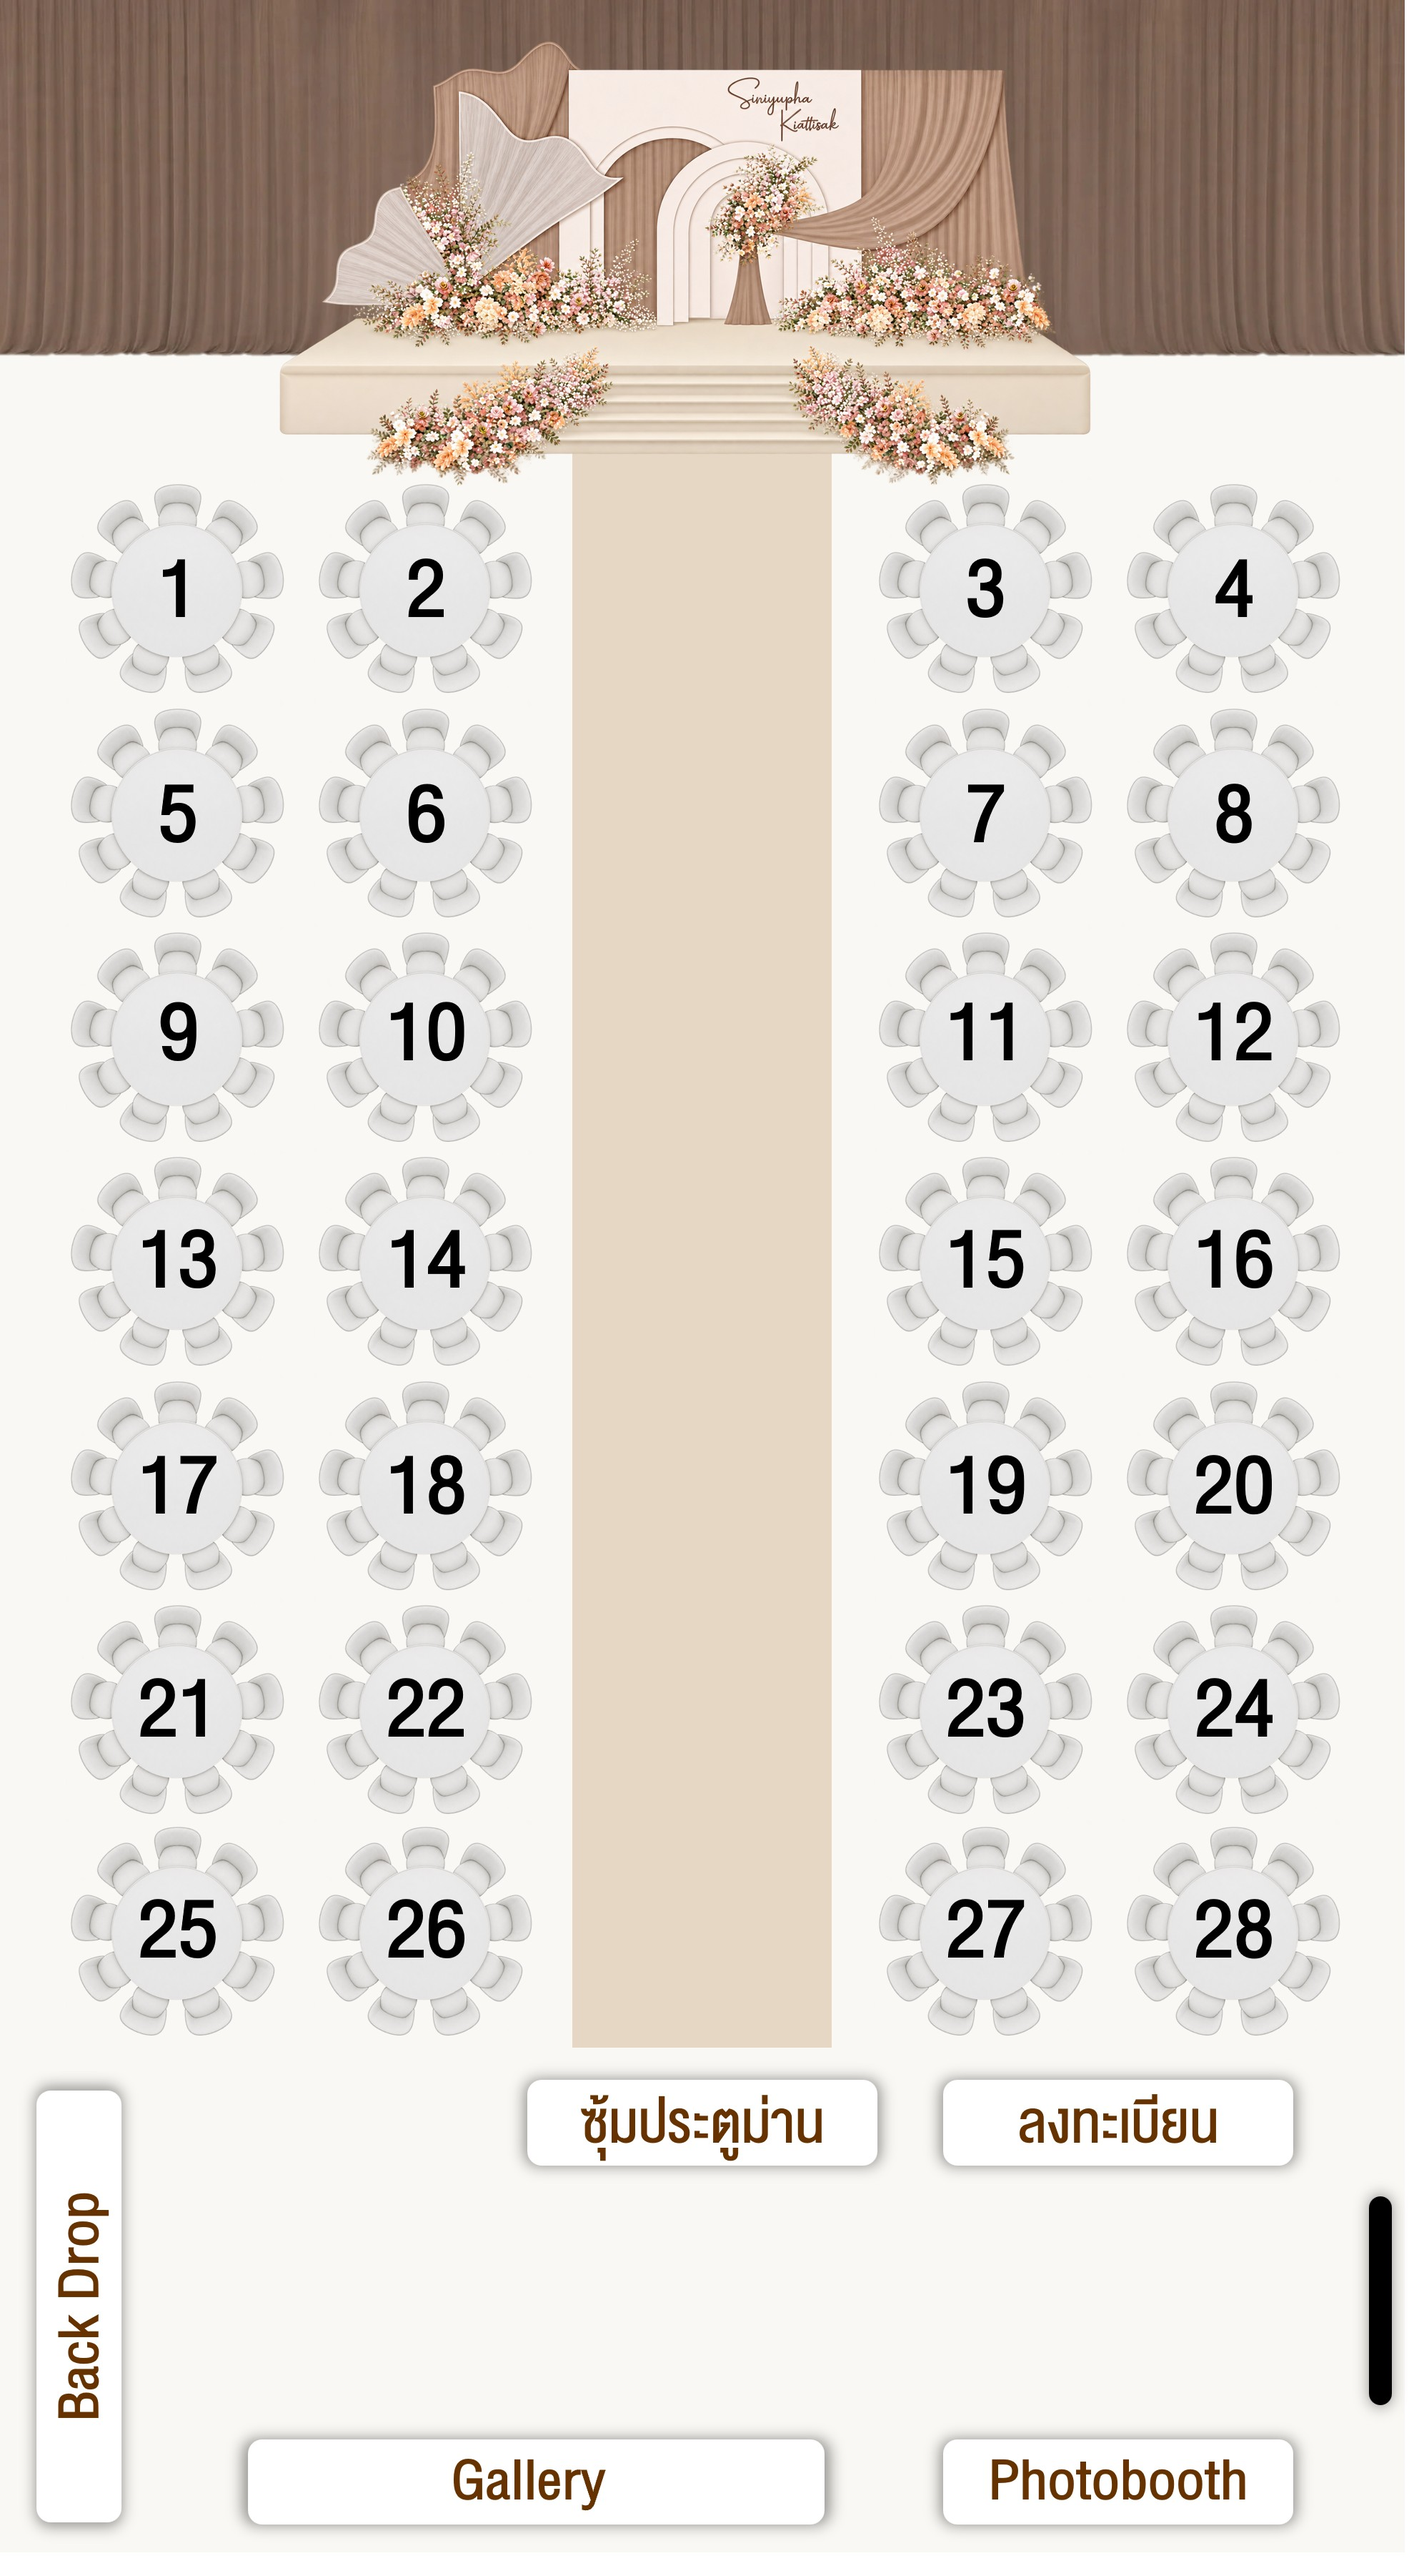
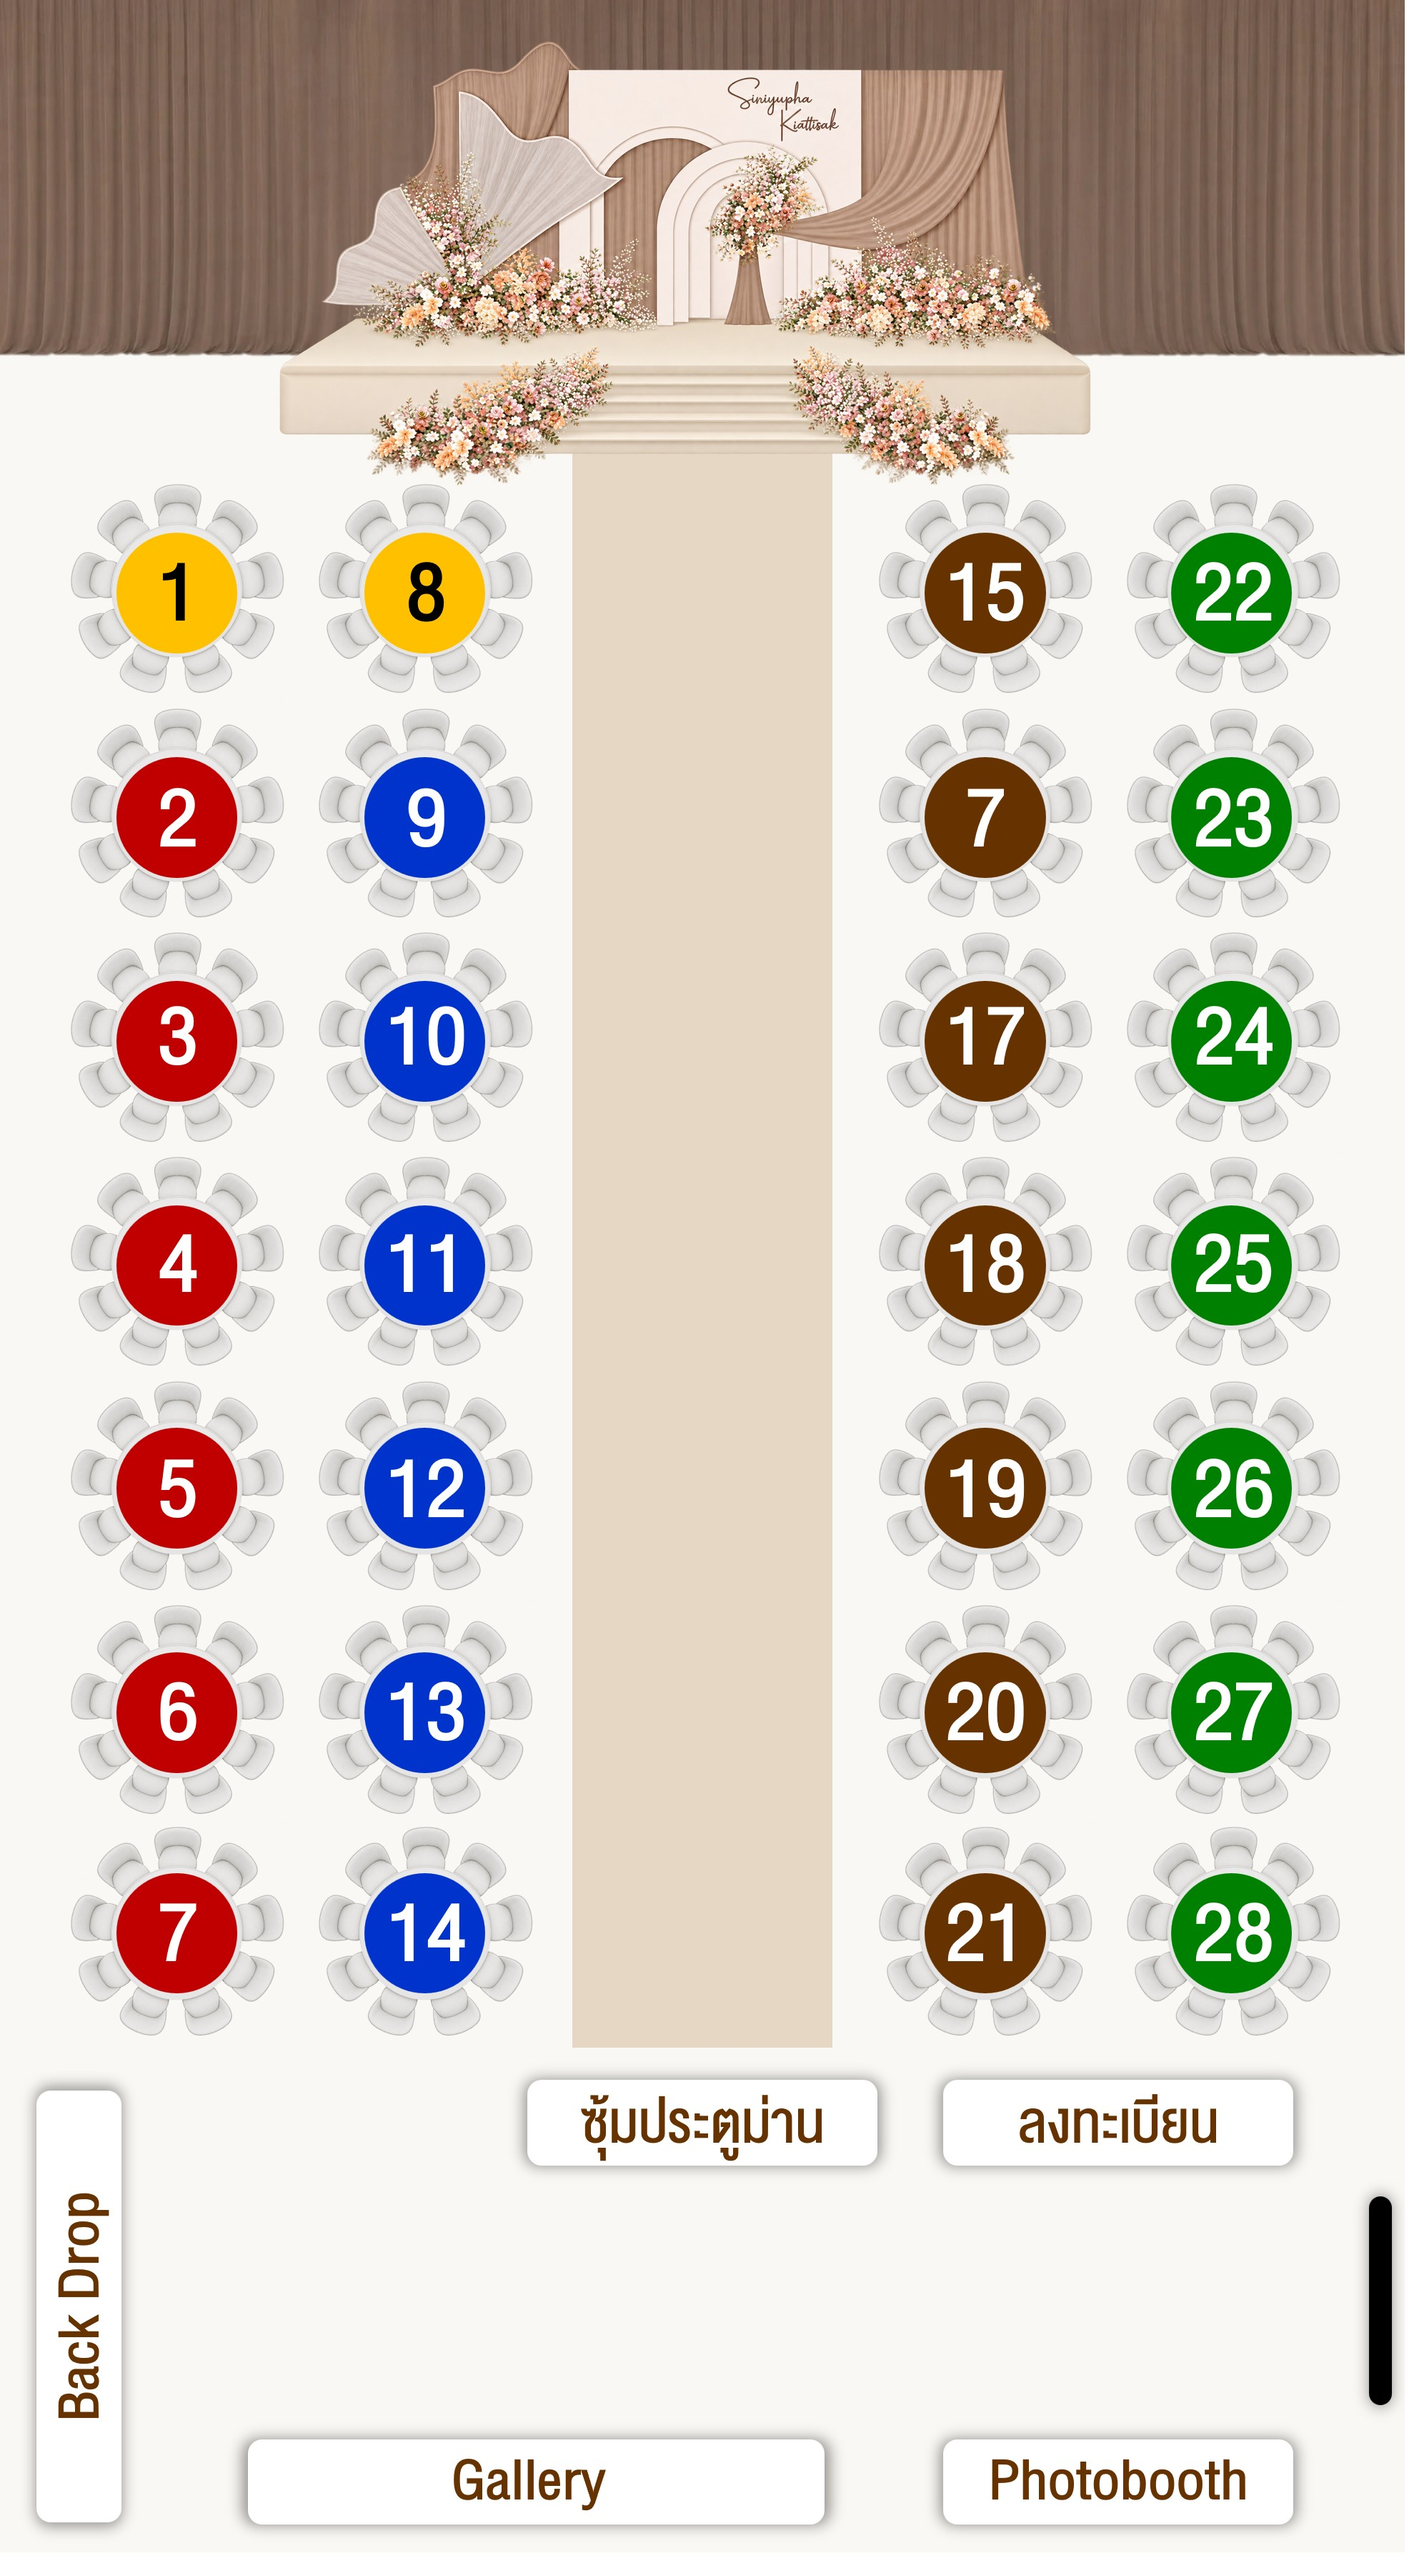
update wedding site and table page label

diff --git a/table/js/table.js b/table/js/table.js
@@ -44,11 +44,12 @@ function renderTables(tables) {
   }
 
   grid.innerHTML = normalizedTables.map(item => {
-    const isFull = item.actualGuestsCount === 10;
+    let isFull = item.actualGuestsCount === 10;
+    let zoneDotClass = getZoneClass(item.tableNo);
 
-    const guestsHtml = item.allGuests
+    let guestsHtml = item.allGuests
       .map((name, i) => {
-        const isVacant = name === 'ว่าง';
+        let isVacant = name === 'ว่าง';
         return `
           <li class="${isVacant ? 'is-vacant' : ''}" title="${escapeHtml(name)}">
             <span class="idx">${i + 1}.</span>${escapeHtml(name)}
@@ -60,7 +61,10 @@ function renderTables(tables) {
     return `
       <article class="table-box">
         <div class="table-header">
-          <span class="table-no">โต๊ะ ${escapeHtml(item.tableNo)}</span>
+          <span class="table-no">
+            ${zoneDotClass ? `<span class="zone-dot ${zoneDotClass}"></span>` : ''}
+            โต๊ะ ${escapeHtml(item.tableNo)}
+          </span>
           <span class="table-badge ${isFull ? 'is-full' : ''}">${item.actualGuestsCount}/10 ท่าน</span>
         </div>
         <ul class="guest-list">
@@ -69,6 +73,16 @@ function renderTables(tables) {
       </article>
     `;
   }).join('');
+}
+
+function getZoneClass(tableNo) {
+  let num = parseInt(String(tableNo).replace(/[^0-9]/g, ''), 10);
+  if (num === 1 || num === 8) return 'zone-dot-a';
+  if (num >= 2 && num <= 7) return 'zone-dot-b';
+  if (num >= 9 && num <= 14) return 'zone-dot-c';
+  if (num >= 15 && num <= 21) return 'zone-dot-d';
+  if (num >= 22 && num <= 28) return 'zone-dot-e';
+  return '';
 }
 
 function filterTables() {

diff --git a/table/index.html b/table/index.html
@@ -40,6 +40,34 @@
       <div class="layout-frame">
         <img src="../img/table-layout.jpg" alt="ผังโต๊ะรับแขกงานแต่ง Siriyupha & Kiattisak">
       </div>
+
+      <!-- คำอธิบายโซนที่นั่ง (Zone A - E) -->
+      <div class="zone-legend">
+        <div class="zone-badge zone-a">
+          <span class="zone-dot"></span>
+          <span class="zone-text"><strong>Zone A :</strong> VIP</span>
+        </div>
+
+        <div class="zone-badge zone-b">
+          <span class="zone-dot"></span>
+          <span class="zone-text"><strong>Zone B :</strong> ญาติผู้ใหญ่ / ชุมแพ</span>
+        </div>
+
+        <div class="zone-badge zone-c">
+          <span class="zone-dot"></span>
+          <span class="zone-text"><strong>Zone C :</strong> ญาติผู้ใหญ่ / ขอนแก่น</span>
+        </div>
+
+        <div class="zone-badge zone-d">
+          <span class="zone-dot"></span>
+          <span class="zone-text"><strong>Zone D :</strong> เนสท์เล่ / กลุ่มเพื่อนเจ้าสาว</span>
+        </div>
+
+        <div class="zone-badge zone-e">
+          <span class="zone-dot"></span>
+          <span class="zone-text"><strong>Zone E :</strong> ซีพีเอฟ / กลุ่มเพื่อนเจ้าบ่าว</span>
+        </div>
+      </div>
     </section>
 
     <!-- ส่วนล่าง: หมายเลขโต๊ะ และรายชื่อแขก 10 ท่าน -->

diff --git a/table/css/table.css b/table/css/table.css
@@ -235,3 +235,61 @@ body {
 .guest-list li.is-vacant span.idx {
   color: #C0392B;
 }
+
+/* ==========================================
+   Zone Legend (5 แถว ชิดซ้าย บล็อกอยู่กึ่งกลาง)
+========================================== */
+.zone-legend {
+  display: flex;
+  flex-direction: column;
+  align-items: flex-start;
+  width: fit-content;
+  margin: 14px auto 0;
+  padding-top: 12px;
+  padding-left: 6px;
+  padding-right: 6px;
+  gap: 8px;
+}
+
+.zone-badge {
+  display: flex;
+  align-items: center;
+  justify-content: flex-start;
+  gap: 8px;
+  font-size: 12.5px;
+  color: var(--text-main);
+  text-align: left;
+}
+
+.zone-badge strong {
+  font-weight: 500;
+  color: var(--seal-dark);
+}
+
+.zone-dot {
+  flex-shrink: 0;
+  width: 11px;
+  height: 11px;
+  border-radius: 50%;
+}
+
+.zone-a .zone-dot { background: #F4C20D; }
+.zone-b .zone-dot { background: #C81010; }
+.zone-c .zone-dot { background: #0B3EC9; }
+.zone-d .zone-dot { background: #6B3A08; }
+.zone-e .zone-dot { background: #0D7A0D; }
+
+.table-no {
+  display: inline-flex;
+  align-items: center;
+  gap: 7px;
+  font-size: 14px;
+  font-weight: 500;
+  color: var(--seal-dark);
+}
+
+.zone-dot-a { background: #F4C20D; } /* โต๊ะ 1, 8 */
+.zone-dot-b { background: #C81010; } /* โต๊ะ 2-7 */
+.zone-dot-c { background: #0B3EC9; } /* โต๊ะ 9-14 */
+.zone-dot-d { background: #6B3A08; } /* โต๊ะ 15-21 */
+.zone-dot-e { background: #0D7A0D; } /* โต๊ะ 22-28 */
